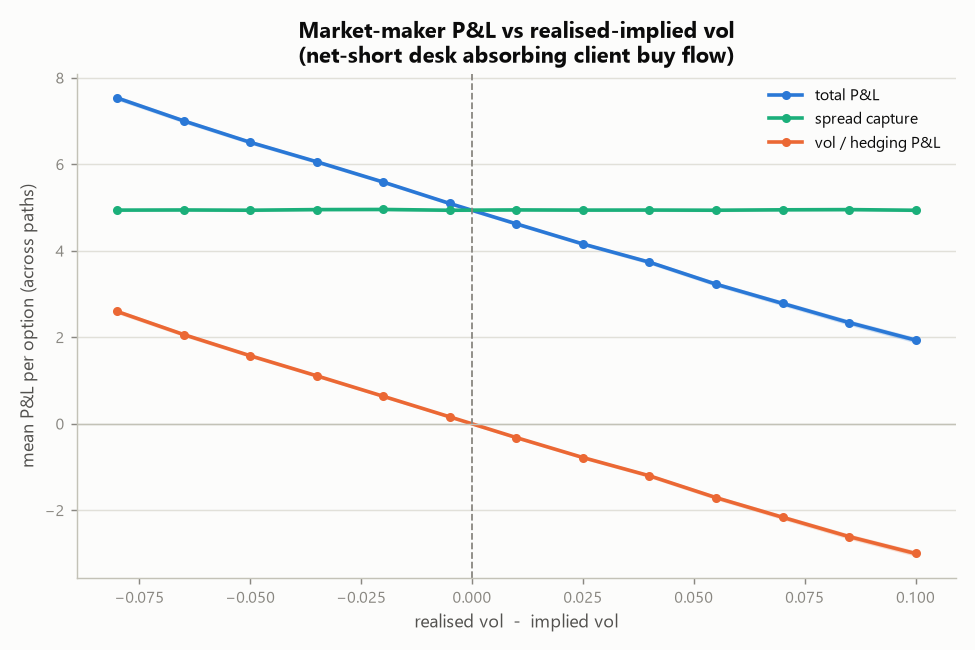
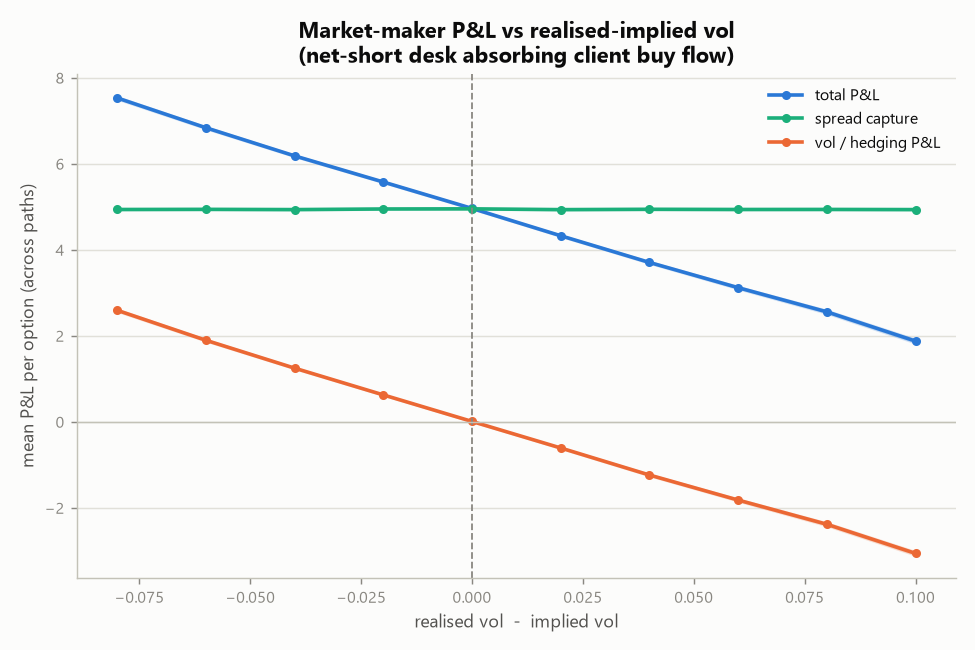
Quality sweep: x64 precision, dead exports, lag-1 tau, report all arb violations
* black.py runs in float64 (jax_enable_x64): float32 capped implied-vol
  accuracy near 1e-4 and worse in low-vega wings. The unused, untested
  *_vectorized / *_batch_* vmap aliases are deleted.
* mm_sim's lag-1 hedge rebalanced at the pre-move time to expiry (tau)
  after the move had resolved; it now uses tau - dt. Charts regenerated.
* arb_scan's butterfly and vertical checks stopped at the first
  violation per chain, silently dropping the rest; they now report
  every violating triple/pair.

diff --git a/arbitrage/arb_scan.py b/arbitrage/arb_scan.py
@@ -273,15 +273,17 @@ class ArbitrageDetector:
 
     def check_butterfly_arbitrage(self, options: List[Option],
                                   tolerance: float = 0.01,
-                                  spacing_tol: float = 0.01) -> Optional[Dict]:
+                                  spacing_tol: float = 0.01) -> List[Dict]:
         """Butterfly convexity: buy 1 low, sell 2 mid, buy 1 high must cost >= 0.
 
-        A negative entry cost is a free-money arbitrage. Tolerances default to the
-        strict (institutional) values; the retail path passes looser ones.
+        A negative entry cost is a free-money arbitrage. Every violating triple
+        is reported, not just the first found. Tolerances default to the strict
+        (institutional) values; the retail path passes looser ones.
         """
         options = sorted(options, key=lambda x: x.strike)
+        found: List[Dict] = []
         if len(options) < 3:
-            return None
+            return found
 
         for i in range(len(options) - 2):
             low, mid, high = options[i], options[i + 1], options[i + 2]
@@ -299,7 +301,7 @@ class ArbitrageDetector:
             cost = low.ask - 2 * mid.bid + high.ask
 
             if cost < -tolerance:
-                return {
+                found.append({
                     "type": "Butterfly Arbitrage (Negative Cost)",
                     "strikes": f"{low.strike}/{mid.strike}/{high.strike}",
                     "option_type": low.type,
@@ -308,9 +310,9 @@ class ArbitrageDetector:
                     "entry_cost": cost,
                     "estimated_profit": -cost,
                     "max_additional_profit": min(wing1, wing2),
-                }
+                })
 
-        return None
+        return found
 
     def check_calendar_spread(self, near: Option, far: Option,
                               tolerance: float = 0.01) -> Optional[Dict]:
@@ -338,16 +340,18 @@ class ArbitrageDetector:
 
     # ---------- retail checks (no short selling) ----------
 
-    def check_vertical_spread_arbitrage(self, options: List[Option]) -> Optional[Dict]:
+    def check_vertical_spread_arbitrage(self, options: List[Option]) -> List[Dict]:
         """Vertical monotonicity (no shorting needed).
 
         Calls: a lower strike must be worth more than a higher strike.
         Puts:  a higher strike must be worth more than a lower strike.
-        If the more valuable option can be BOUGHT below the other's bid, arbitrage.
+        If the more valuable option can be BOUGHT below the other's bid,
+        arbitrage. Every violating adjacent pair is reported.
         """
         options = sorted(options, key=lambda x: x.strike)
+        found: List[Dict] = []
         if len(options) < 2:
-            return None
+            return found
 
         for i in range(len(options) - 1):
             opt1, opt2 = options[i], options[i + 1]
@@ -357,7 +361,7 @@ class ArbitrageDetector:
 
             if opt1.type == "call":
                 if opt1.ask < opt2.bid - 0.02:
-                    return {
+                    found.append({
                         "type": "Vertical Spread Arbitrage (Call)",
                         "strikes": f"{opt1.strike}/{opt2.strike}",
                         "expiry": opt1.expiry,
@@ -366,10 +370,10 @@ class ArbitrageDetector:
                         "estimated_profit": opt2.bid - opt1.ask,
                         "capital_required": opt1.ask,
                         "risk": "Limited to premium paid",
-                    }
+                    })
             elif opt1.type == "put":
                 if opt2.ask < opt1.bid - 0.02:
-                    return {
+                    found.append({
                         "type": "Vertical Spread Arbitrage (Put)",
                         "strikes": f"{opt1.strike}/{opt2.strike}",
                         "expiry": opt1.expiry,
@@ -378,9 +382,9 @@ class ArbitrageDetector:
                         "estimated_profit": opt1.bid - opt2.ask,
                         "capital_required": opt2.ask,
                         "risk": "Limited to premium paid",
-                    }
+                    })
 
-        return None
+        return found
 
     def check_box_spread_retail(self, call_low: Option, put_low: Option,
                                 call_high: Option, put_high: Option) -> Optional[Dict]:
@@ -477,10 +481,8 @@ class ArbitrageDetector:
                             self.opportunities.append(result)
             else:
                 # Vertical monotonicity (calls and puts).
-                for result in (self.check_vertical_spread_arbitrage(calls),
-                               self.check_vertical_spread_arbitrage(puts)):
-                    if result:
-                        self.opportunities.append(result)
+                self.opportunities.extend(self.check_vertical_spread_arbitrage(calls))
+                self.opportunities.extend(self.check_vertical_spread_arbitrage(puts))
 
             # Box spreads (both modes, different admissible direction).
             for i, c1 in enumerate(calls):
@@ -505,9 +507,8 @@ class ArbitrageDetector:
                     calls, tolerance=0.05, spacing_tol=0.5)
                 bfly_puts = self.check_butterfly_arbitrage(
                     puts, tolerance=0.05, spacing_tol=0.5)
-            for result in (bfly_calls, bfly_puts):
-                if result:
-                    self.opportunities.append(result)
+            self.opportunities.extend(bfly_calls)
+            self.opportunities.extend(bfly_puts)
 
         # Calendar spreads across expiries.
         all_expiries = sorted(by_expiry.keys())

diff --git a/pricing_and_vol_surface/black.py b/pricing_and_vol_surface/black.py
@@ -1,7 +1,14 @@
-from jax.scipy.stats import norm as jnorm
-import yfinance as yf
-import jax.numpy as jnp
-from jax import grad, jit, vmap
+import jax
+
+# Full float64 precision: without this JAX defaults to float32, which caps
+# implied-vol accuracy around 1e-4 (worse in low-vega wings) and adds ~1e-6
+# noise to prices - unacceptable for a pricing library, negligible cost here.
+jax.config.update("jax_enable_x64", True)
+
+from jax.scipy.stats import norm as jnorm  # noqa: E402
+import yfinance as yf  # noqa: E402
+import jax.numpy as jnp  # noqa: E402
+from jax import grad, jit, vmap  # noqa: E402
 import seaborn as sn
 from matplotlib import pyplot as plt
 from datetime import datetime, date
@@ -38,15 +45,6 @@ def black_scholes(S, K, T, r, sigma, q=0, otype="call"):
         return _black_scholes_put(S, K, T, r, sigma, q)
     else:
         raise ValueError("otype must be 'call' or 'put'")
-
-
-black_scholes_vectorized = vmap(black_scholes, in_axes=(0, 0, 0, 0, 0, 0, None))
-black_scholes_batch_strikes = vmap(
-    black_scholes, in_axes=(None, 0, None, None, None, None, None)
-)
-black_scholes_batch_volatilities = vmap(
-    black_scholes, in_axes=(None, None, None, None, 0, None, None)
-)
 
 
 def stock_data(stock):
@@ -190,13 +188,6 @@ def greeks(S, K, T, r, sigma, q=0, otype="call"):
     vega = _vega(S, K, T, r, sigma, q)
 
     return delta, gamma, theta, vega, rho
-
-
-greeks_vectorized = vmap(greeks, in_axes=(0, 0, 0, 0, 0, 0, None))
-greeks_batch_strikes = vmap(greeks, in_axes=(None, 0, None, None, None, None, None))
-greeks_batch_volatilities = vmap(
-    greeks, in_axes=(None, None, None, None, 0, None, None)
-)
 
 
 def price_heatmap(

diff --git a/market_making/mm_sim.py b/market_making/mm_sim.py
@@ -523,7 +523,8 @@ def simulate_paths(
 
         # Hedge AFTER the move if a lag is configured (adverse-selection channel).
         if p.hedge_lag == 1:
-            delta_opt = bs_delta(S, p.K, tau, p.r, p.sigma_impl, p.q, p.otype)
+            # The move has resolved: time to expiry is now tau - dt, not tau.
+            delta_opt = bs_delta(S, p.K, tau - dt, p.r, p.sigma_impl, p.q, p.otype)
             H_target = -q_inv * delta_opt * m
             dH = H_target - H
             cash -= dH * S + p.tc_underlying * np.abs(dH) * S

diff --git a/tests/test_arb_scan.py b/tests/test_arb_scan.py
@@ -174,5 +174,5 @@ def test_negative_cost_butterfly_still_flagged():
         opt(105, "call", 2.40, 2.50),
     ])
     # Cost = 7.00 - 2*5.00 + 2.50 = -0.50.
-    assert result is not None
-    assert result["estimated_profit"] == pytest.approx(0.50)
+    assert len(result) == 1
+    assert result[0]["estimated_profit"] == pytest.approx(0.50)
